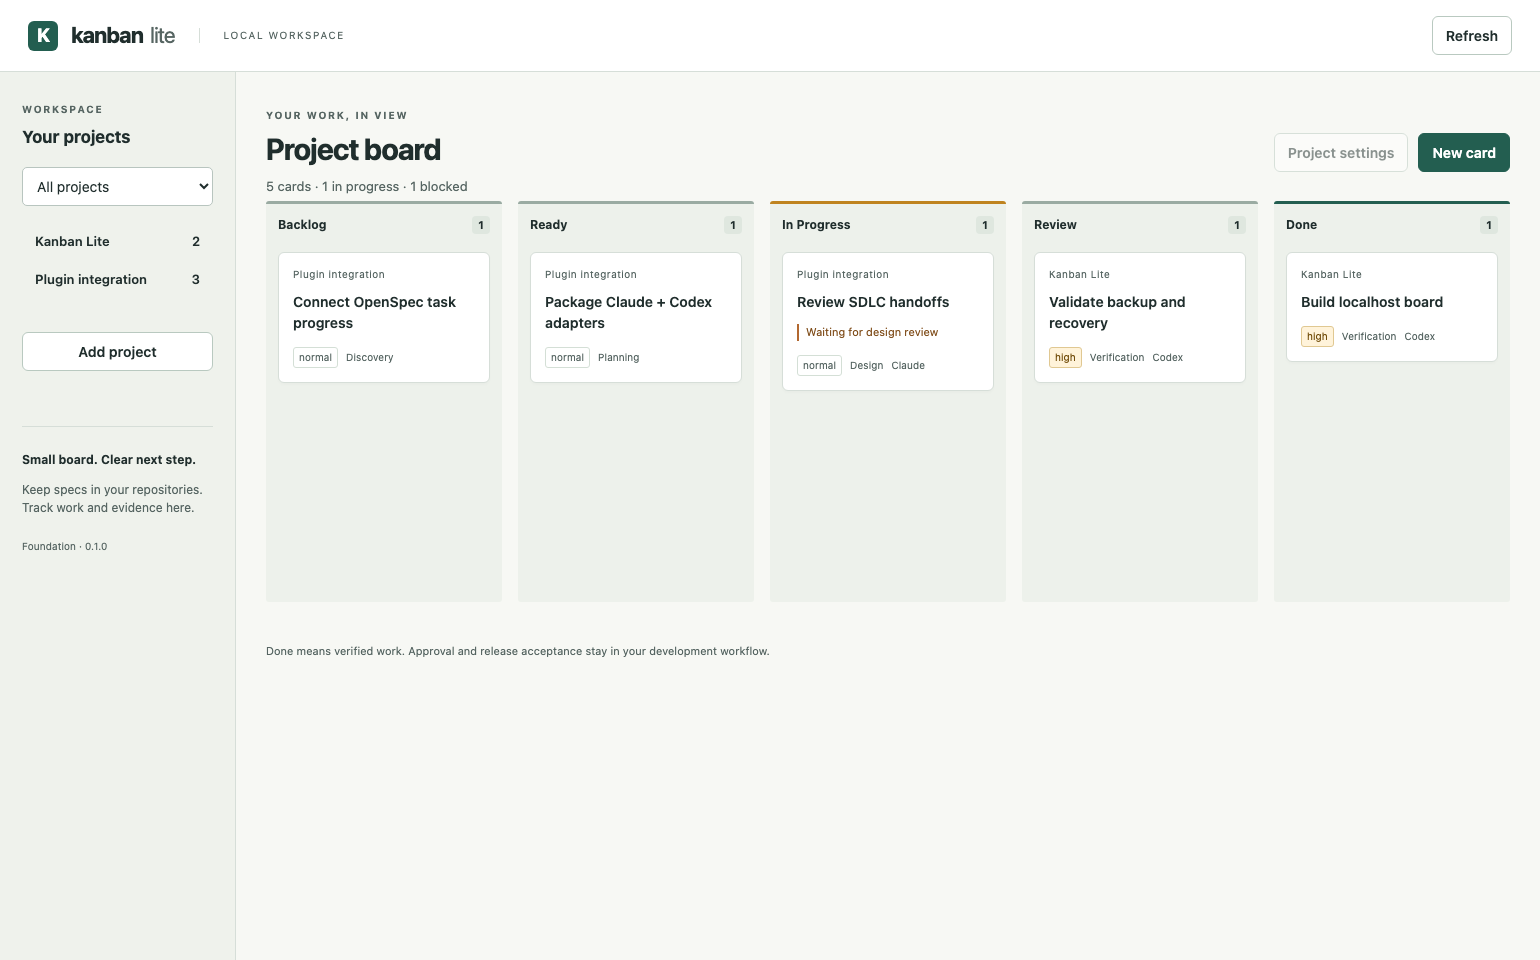
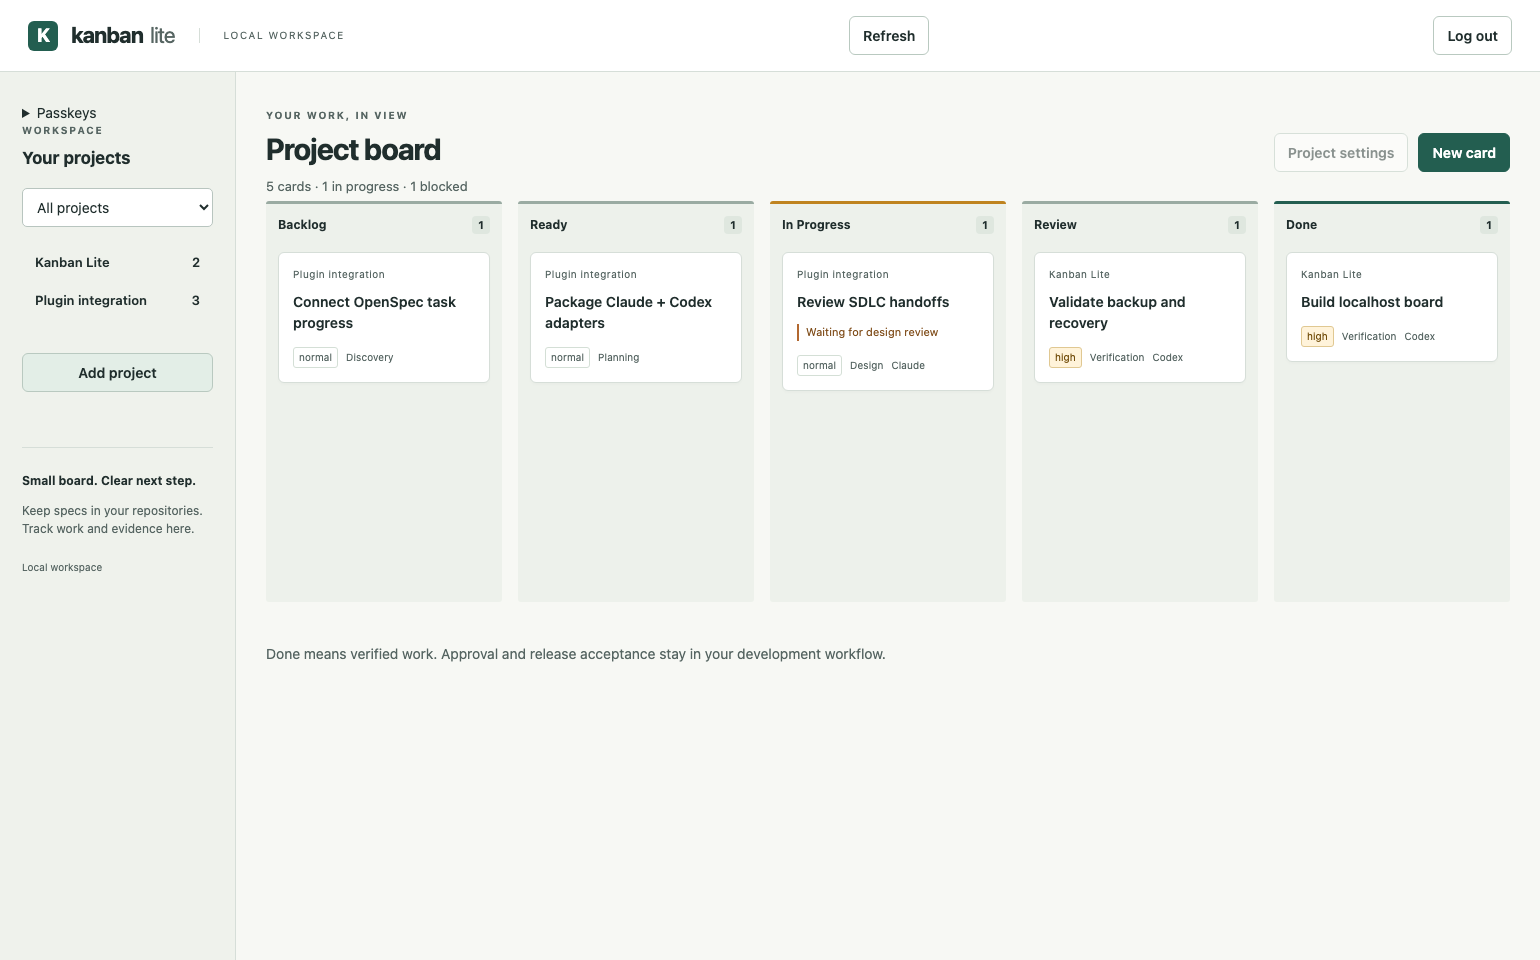
docs: refresh onboarding guidance and current UI screenshots

diff --git a/README.md b/README.md
@@ -19,11 +19,11 @@ Runs on your machine with SQLite storage and built-in SQLite and HTTP APIs. No D
 - Work across browser tabs with revision conflicts, activity history, and SQLite backups.
 - Connect optional MCP tools and generated plugins for Claude Code and Codex. OpenSpec import remains planned.
 
-![Kanban Lite board with illustrative sample data](https://raw.githubusercontent.com/alvintayzhenwei/kanban-lite/main/docs/assets/board-desktop.png)
+![Kanban Lite board with illustrative sample data](docs/assets/board-desktop.png)
 
 ## Copy-paste setup with Codex or Claude
 
-Use the [setup prompts](https://github.com/alvintayzhenwei/kanban-lite/blob/main/docs/setup-prompts.md) to install, start, and verify the local board with either assistant. The guide also covers manual tracking alongside Agent Skills, Superpowers, and OpenSpec.
+Use the [setup prompts](docs/setup-prompts.md) to install, start, and verify the local board with either assistant. The guide also covers manual tracking alongside Agent Skills, Superpowers, and OpenSpec.
 
 ## Run with npm / npx
 
@@ -42,7 +42,7 @@ npm install --global @alvintayzhenwei/kanban-lite
 kanban-lite start --open
 ```
 
-For reproducible runs, append an explicit published version to the package name. See the [publishing guide](https://github.com/alvintayzhenwei/kanban-lite/blob/main/docs/publishing.md) for the GitHub tag → checks → trusted npm publishing workflow and first-release setup.
+For reproducible runs, append an explicit published version to the package name. See the [publishing guide](docs/publishing.md) for the GitHub tag → checks → trusted npm publishing workflow and first-release setup.
 
 ## Start locally
 
@@ -60,25 +60,46 @@ The service binds to `127.0.0.1:4317`. `--open` opens your default browser with 
 
 Open the board through the running service at `http://localhost:4317/`. Do not open `public/index.html` as a `file://` page: the application needs the service's API and browser session.
 
-### Browser login
+### Browser login and first-time setup
 
-To log in to another browser or renew an expired session, keep the service running and open a new terminal:
+Open `http://localhost:4317/` in the browser you want to use. Returning users
+choose **Sign in with passkey**. For first-time setup:
+
+1. Expand **First-time setup** and choose **Copy setup prompt**.
+2. Paste the prompt into Codex on the computer running the board. It asks Codex
+   to verify the existing service, data directory, and installed CLI, then open
+   a trusted browser session. You do not need to edit a placeholder path.
+3. Continue in the browser that opens. Choose **Create passkey**, select your
+   credential manager, and approve with Touch ID or your device PIN.
+4. After the success message, use the board. Future sign-ins use your passkey.
+
+**Do this later** lets you use the authenticated board without enrolling yet.
+**Check connection** checks the current browser's session; it cannot sign in a
+separate browser. **Need help?** contains CLI recovery and key-storage details.
+
+![Current first-time setup with Copy setup prompt](docs/assets/onboarding-desktop.png)
+
+For manual setup or recovery, run the following on the board host with the
+same data directory used by the running service and MCP adapter:
 
 ```sh
-node dist/src/cli.js open --data-dir /path/to/your/kanban-data
+kanban-lite open --data-dir /path/to/your/kanban-data
 ```
 
-Use the same data directory shown in the service terminal and configured in your MCP adapter. Omit `--data-dir` only if the service uses the default `~/.kanban-lite/`. For an installed package, use `kanban-lite open` (or `npx --yes @alvintayzhenwei/kanban-lite open`) with the same arguments.
+For a source checkout, use `node dist/src/cli.js open` instead of `kanban-lite open`.
+For an npx installation, use `npx --yes @alvintayzhenwei/kanban-lite open`.
+On macOS, append `--browser "Google Chrome"` to choose Chrome. Omit `--data-dir`
+only when the board uses the default `~/.kanban-lite/`.
 
-The `open` command is available from version `0.2.0`. Until that version is published, use the source-build command above; version `0.1.1` does not include it. See the [changelog](CHANGELOG.md) for the upgrade notes.
+The `open` command was introduced in `0.2.0`; `0.1.1` does not include it.
+Passkeys and guided onboarding are currently **Unreleased** on this branch.
+The latest npm package may not include them; use this branch's built source
+until a containing release is published. See [CHANGELOG.md](CHANGELOG.md).
 
-The command opens a fresh authenticated session in your default browser without restarting the service or signing out existing sessions. On macOS, choose Chrome explicitly:
-
-```sh
-node dist/src/cli.js open --browser "Google Chrome" --data-dir /path/to/your/kanban-data
-```
-
-Opening the plain localhost URL does not sign you in. An unauthenticated browser displays **Sign in to Kanban Lite** with instructions, rather than an empty project board. MCP access does not authenticate the browser. After upgrading an older service, rebuild and restart it once to enable the new `open` command; subsequent browser logins need no restart.
+The command opens a fresh browser session without restarting the service or
+signing out other browsers. Opening the plain URL does not authenticate you.
+MCP access is separate from browser login. After upgrading service code, rebuild
+and restart once; subsequent browser logins need no restart.
 
 To use another port or data directory:
 
@@ -90,9 +111,9 @@ Register repository roots with **Add project**, then create cards. Select one pr
 
 ## Agent tools and plugins
 
-Use the [MCP setup guide](https://github.com/alvintayzhenwei/kanban-lite/blob/main/docs/mcp-setup.md) to build the optional adapter and install either host package. Ten tools inspect projects/cards and record authorized card changes, blockers, artifacts, and actual verification evidence. Both adapters connect to the same explicit board service. The shared workflow skill preserves repository and installed workflow approval gates.
+Use the [MCP setup guide](docs/mcp-setup.md) to build the optional adapter and install either host package. Ten tools inspect projects/cards and record authorized card changes, blockers, artifacts, and actual verification evidence. Both adapters connect to the same explicit board service. The shared workflow skill preserves repository and installed workflow approval gates.
 
-Codex tool discovery and a read-only operation have been verified locally. Installed Claude Code acceptance remains pending; see [Release 2 acceptance](https://github.com/alvintayzhenwei/kanban-lite/blob/main/docs/release-2-acceptance.md) for evidence and limits.
+Codex tool discovery and a read-only operation have been verified locally. Installed Claude Code acceptance remains pending; see [Release 2 acceptance](docs/release-2-acceptance.md) for evidence and limits.
 
 For an existing service, rebuild and restart it before using the new agent endpoint. Plugin loading does not start the service. Use the same data directory for the browser and adapters.
 
@@ -131,7 +152,7 @@ Restore validates schema and database integrity, preserves existing state in a `
 
 SQLite and HTTP use Node's built-in APIs. Passkey verification and browser ceremonies use pinned SimpleWebAuthn runtime libraries; the browser helper is served locally. The optional MCP adapter has separate locked SDK/schema dependencies; they are not required for the browser board. Development dependencies provide compilation, linting, formatting, and browser tests and are not needed to run the built application. Node 24 SQLite API maturity may vary by patch; this project verifies the pinned patch.
 
-Observed startup, memory, and package measurements are recorded in [Release 1 acceptance](https://github.com/alvintayzhenwei/kanban-lite/blob/main/docs/release-1-acceptance.md). These measurements characterize one machine, not universal performance guarantees.
+Observed startup, memory, and package measurements are recorded in [Release 1 acceptance](docs/release-1-acceptance.md). These measurements characterize one machine, not universal performance guarantees.
 
 ## Checks and dependency updates
 
@@ -144,7 +165,7 @@ npm run format:check
 
 CI runs lint, type checks, application tests, MCP contracts, plugin installation checks, package installation/startup checks, and Chromium acceptance. Actions are pinned to immutable commits. The separate Security workflow audits main and adapter dependencies for known vulnerabilities on pull requests, main pushes, and weekly runs; high or critical findings fail the check.
 
-The Security badge reflects the latest main-branch workflow result. It is not a security certification or a guarantee that the application has no vulnerabilities. See [SECURITY.md](https://github.com/alvintayzhenwei/kanban-lite/blob/main/SECURITY.md) for the local trust boundary and private reporting route.
+The Security badge reflects the latest main-branch workflow result. It is not a security certification or a guarantee that the application has no vulnerabilities. See [SECURITY.md](SECURITY.md) for the local trust boundary and private reporting route.
 
 Dependabot checks npm and GitHub Actions weekly, Monday at 09:00 Asia/Singapore. There is no automatic merge. Repository security alerts and private reporting require separate GitHub settings.
 
@@ -158,25 +179,15 @@ Kanban Lite is licensed under the [MIT License](https://github.com/alvintayzhenw
 2. **Claude Code and Codex:** one shared MCP adapter and skills source, separate validated plugin packages, actual host acceptance.
 3. **Workflow integration:** read-only OpenSpec import/reconciliation and project workflow modes for Agent Skills, Superpowers, or both. Preserve source authority and approval gates.
 
-See the [design](https://github.com/alvintayzhenwei/kanban-lite/blob/main/docs/superpowers/specs/2026-10-01-kanban-lite-design.md) and [Release 1 plan](https://github.com/alvintayzhenwei/kanban-lite/blob/main/docs/superpowers/plans/2026-10-01-release-1.md).
+See the [design](docs/superpowers/specs/2026-10-01-kanban-lite-design.md) and [Release 1 plan](docs/superpowers/plans/2026-10-01-release-1.md).
 
 ## Passkey browser login
 
-Open `http://localhost:4317/` (or your configured port). For first-time setup,
-run `kanban-lite open --data-dir /path/to/your/kanban-data` on the board's host.
-In the authenticated board, expand **Passkeys**, choose **Create passkey**, and
-approve with your device's credential manager, Touch ID, or PIN.
+Follow [Browser login and first-time setup](#browser-login-and-first-time-setup)
+for the guided **Copy setup prompt** flow or manual CLI recovery. The board
+prompts for enrollment after trusted login and confirms success. Choose
+**Do this later** to defer enrollment for this tab's session.
 
-The logged-out page separates returning **Sign in with passkey** from
-**First-time setup**. Expand setup and choose **Copy setup prompt**. Paste it into Codex on the
-board host; the prompt asks Codex to verify the existing service, data directory,
-and installed CLI before opening a trusted browser session. No manual path
-editing is needed. Codex must leave passkey creation and Touch ID/PIN approval
-to you. **Check connection** checks this browser’s session; if
-the command opens another browser, continue there. After trusted login, the
-board offers **Create passkey** prominently. You can choose **Do this later**
-and keep using the board. Successful enrollment confirms your board is ready.
-Recovery instructions and key-storage details are under **Need help?**.
 Your chosen credential manager or security key holds the private key. Kanban
 Lite saves only the public key and credential metadata in `board.sqlite`; it
 never receives the private key, fingerprint, or device PIN.
@@ -216,8 +227,8 @@ are unchanged. A service restart ends all browser sessions but preserves keys.
 To test: create a passkey once, click **Log out**, refresh to confirm the board
 stays private, then click **Sign in with passkey** and approve with Touch ID or
 PIN. The board should return without a terminal command. If you have not enrolled
-a key, use `kanban-lite open --data-dir /path/to/your/kanban-data` for initial
-setup. Clicking logout never deletes projects or cards.
+a key, expand **First-time setup** and use **Copy setup prompt**, or use the
+manual recovery command above. Clicking logout never deletes projects or cards.
 
 ## Auto-start on macOS
 
@@ -330,7 +341,8 @@ metadata and the loaded host instructions determine whether the offer applies.
 The complete release history is in [CHANGELOG.md](CHANGELOG.md).
 
 - **Unreleased:** persistent passkey enrollment/sign-in, browser logout, CLI
-  recovery, schema-2 credential storage, and auto-start/setup documentation.
+  recovery, guided first-time enrollment with **Copy setup prompt** and
+  **Do this later**, schema-2 credential storage, and auto-start/setup documentation.
   Restoring a backup also restores its passkey access trust.
 - **0.2.0:** fresh one-time browser login links through `kanban-lite open`,
   without restarting the service or ending other browser sessions.

diff --git a/CHANGELOG.md b/CHANGELOG.md
@@ -4,6 +4,8 @@
 
 ### Added
 
+- Guided browser onboarding with Copy setup prompt, verified service reuse, deferred enrollment, and credential-storage guidance.
+
 - Browser logout revokes the current session while preserving enrolled keys and other browsers.
 - README guides for logout/relogin, macOS auto-start, and project-chat confirmation prompts.
 
